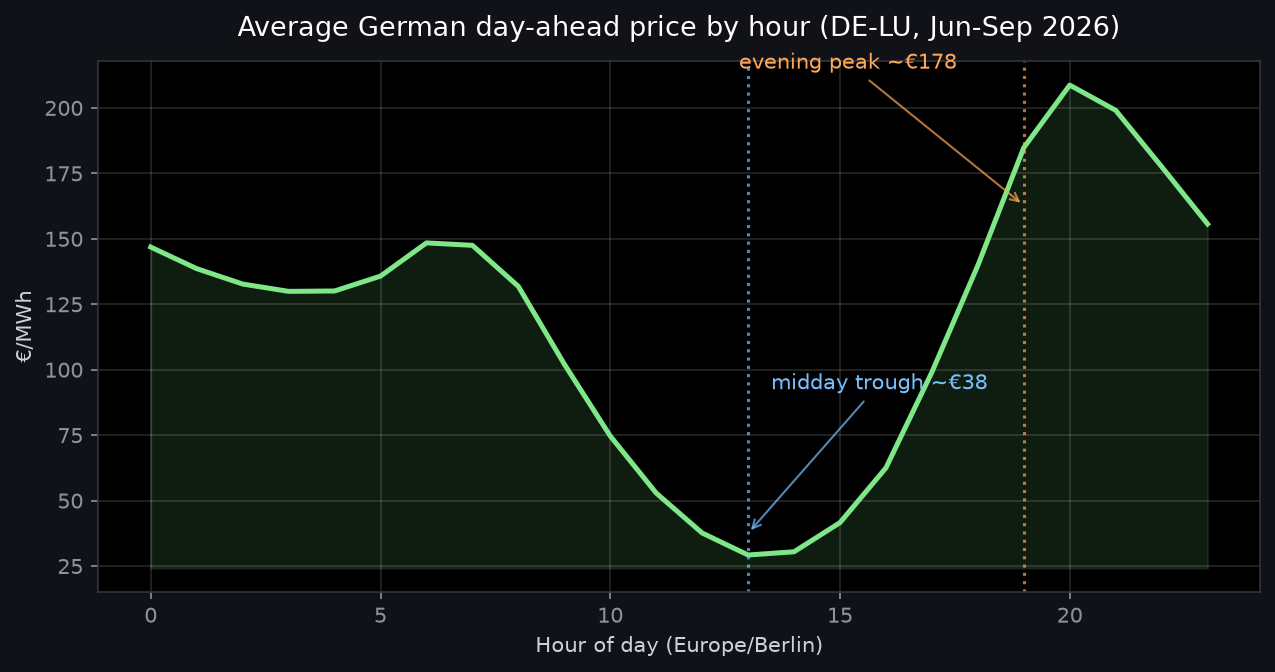
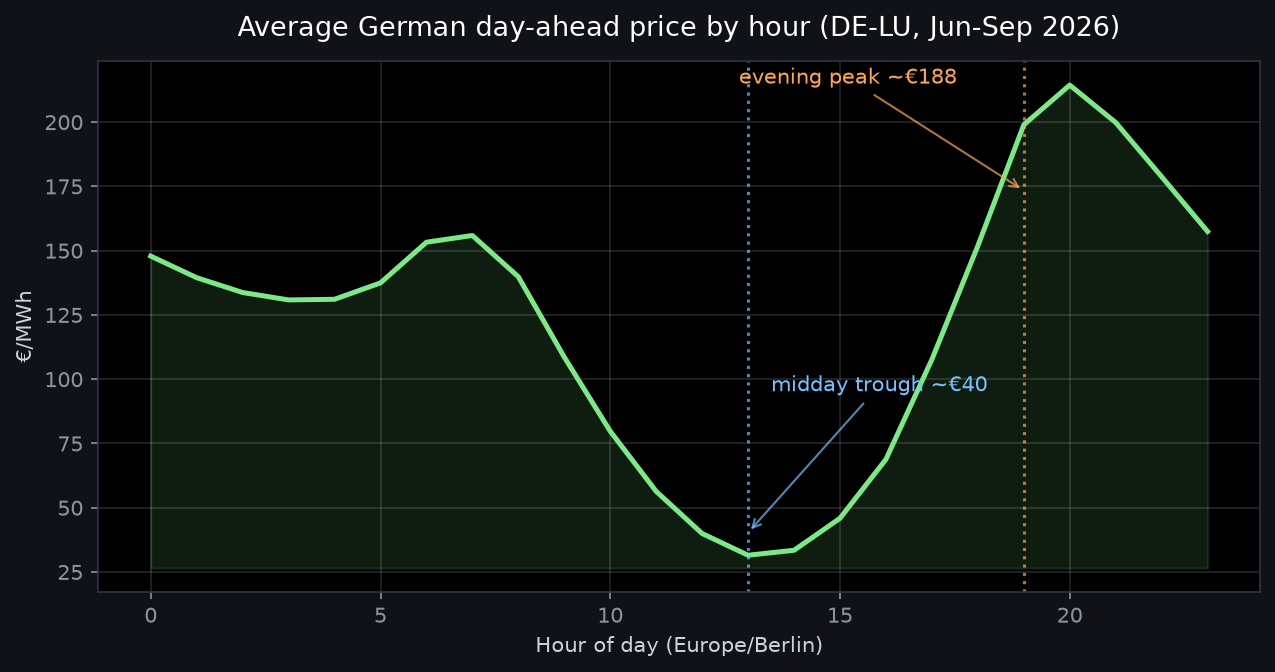
Refresh the findings to 16 weeks of prices (8 June - 28 September)
The serving layer now holds 2,712 hours. A revision-aware backfill and a
full-window transform pulled in one SMARD revision the hourly 7-day
window had missed (2026-09-13 10:00 UTC, 100.83 -> 100.82); afterwards
every hour matched SMARD's published value.

The weekend-midday average moved from -0.83 to +2.98 EUR/MWh, so the
text no longer says the market paid consumers on average. Query J lists
that average per weekend day and shows the change comes from one day,
Sunday 13 September. Query C now also returns the overall average price
that section 4 compares the intraday spread against (1.6x, not the
earlier "nearly twice"). Charts regenerated with make charts.

diff --git a/analysis/findings.md b/analysis/findings.md
@@ -1,8 +1,10 @@
 # Findings: what actually drives the German day-ahead price?
 
-**Data**: 2,328 hourly day-ahead prices for the **DE-LU bidding zone**, 8 June – 12 September
-2026 (14 complete weeks plus the published part of the current week), ingested from SMARD.de
-into this repository's own warehouse and merged with revision-aware upserts.
+**Data**: 2,712 hourly day-ahead prices for the **DE-LU bidding zone**, 8 June – 28 September
+2026 (16 complete weeks plus Monday 28 September, published a day ahead), ingested from
+SMARD.de into this repository's own warehouse and merged with revision-aware upserts. Every
+hour in the window matched SMARD's published value at the time of the last refresh
+(27 September 2026).
 
 Every number below is re-runnable from the marts:
 
@@ -15,61 +17,63 @@ python analysis/make_charts.py   # regenerates the charts in docs/images/
 
 | | |
 | --- | --- |
-| **€178 vs €38** | evening peak (18–20h) vs midday trough (11–14h) — the duck curve, priced |
-| **7.9%** | share of all hours priced below zero (185 hours; the minimum was **−€45.87/MWh**) |
-| **20.5% vs 3.1%** | share of hours below zero on weekends vs weekdays |
-| **−€0.83 vs €192** | average weekend-midday price vs weekday-evening price — the cheapest window of the week is *free* |
+| **€188 vs €40** | evening peak (18–20h) vs midday trough (11–14h) — the duck curve, priced |
+| **7.5%** | share of all hours priced below zero (203 hours; the minimum was **−€45.87/MWh**) |
+| **19.7% vs 2.7%** | share of hours below zero on weekends vs weekdays |
+| **€2.98 vs €206** | average weekend-midday price vs weekday-evening price — the cheapest window of the week is *nearly free* |
 
 The practical takeaway: a weekend midday is the cheapest window of the German
-electricity week. The market paid consumers to use power on average (−€0.83/MWh
-over 11:00–14:00), while a weekday evening (18:00–20:00) cost €191.89/MWh, a gap
-of about €193/MWh.
+electricity week. Power over 11:00–14:00 on weekends averaged €2.98/MWh, while a
+weekday evening (18:00–20:00) cost €205.73/MWh, a gap of about €203/MWh. In the
+earlier 14-week window (to 12 September) the same average was −€0.83/MWh. One day
+lifted it above zero: Sunday 13 September averaged €100.09/MWh at midday. 24 of the 32
+weekend days still averaged below zero over 11:00–14:00.
 
 ## 1. The duck curve, priced
 
 ![Average price by hour](../docs/images/findings_duck_curve.png)
 
-Averaged over 97 days, the shape is stark: the **13:00 hour averages €29.23/MWh** while
-**20:00 averages €208.72/MWh** — a 7× swing *within the same day*. The solar midday floods
+Averaged over 113 days, the shape is stark: the **13:00 hour averages €31.52/MWh** while
+**20:00 averages €214.42/MWh** — a 6.8× swing *within the same day*. The solar midday floods
 the market; the evening ramp, when solar is gone and demand peaks, is where the price lives.
 
 ## 2. Negative prices are a summer, weekend phenomenon
 
 ![Negative hours and average price by month](../docs/images/findings_monthly.png)
 
-185 of 2,328 hours (7.9%) cleared below zero over the window, and 35 of 97 days contained
+203 of 2,712 hours (7.5%) cleared below zero over the window, and 38 of 113 days contained
 at least one negative hour. The worst days were 13–14 June with **10 negative hours each**
 (that Saturday averaged just €26.82/MWh). Monthly counts:
 
 | Month | Negative hours | Avg price | Min price |
 | --- | --- | --- | --- |
-| June 2026 | 34 | €113.75 | −€45.87 |
+| June 2026 (from 8 June) | 34 | €113.75 | −€45.87 |
 | July 2026 | 79 | €105.45 | −€12.28 |
 | August 2026 | 54 | €126.89 | −€12.15 |
-| September 2026 (partial) | 18 | €137.54 | −€19.00 |
+| September 2026 (to 28 September) | 36 | €144.22 | −€19.00 |
 
-The weekday/weekend split is even sharper than the seasonal one: **20.5% of weekend hours
-were negative vs 3.1% on weekdays** — industrial demand disappears exactly when solar
+The weekday/weekend split is even sharper than the seasonal one: **19.7% of weekend hours
+were negative vs 2.7% on weekdays** — industrial demand disappears exactly when solar
 output peaks.
 
 ## 3. The week rhythm
 
 ![Weekend vs weekday profile](../docs/images/findings_week_rhythm.png)
 
-Weekends average **€87.08/MWh against €130.26 on weekdays (−33%)**, but the difference is
-not uniform: it is concentrated midday, where the weekend curve collapses into negative
-territory while the weekday curve stays well above zero. A consumer with flexible load
+Weekends average **€88.84/MWh against €135.98 on weekdays (−35%)**, but the difference is
+not uniform: it is concentrated midday, where the weekend curve collapses to around zero
+while the weekday curve stays well above it. A consumer with flexible load
 should think in terms of *weekend midday*, not "the weekend".
 
 ## 4. What intraday volatility is worth
 
-The average **intraday spread (max − min per local day) is €186.36/MWh** — nearly twice the
-average price level. For battery storage, EVs, heat pumps, or any flexible load, this is the
+The average **intraday spread (max − min per local day) is €194.79/MWh** — about 1.6 times
+the average price of €122.63/MWh. For battery storage, EVs, heat pumps, or any flexible load, this is the
 number that matters: it is the value of shifting one megawatt-hour by a few hours.
 
 ## Caveats
 
-- 14 weeks is a snapshot, and a summer one. German winter dynamics (heating demand, weak
+- 16 weeks is a snapshot, mostly a summer one. German winter dynamics (heating demand, weak
   solar, Dunkelflaute) look different; the same queries on a winter window are one
   `make backfill` away.
 - Only day-ahead prices are analysed here. Intraday and imbalance markets have their own

diff --git a/README.md b/README.md
@@ -77,15 +77,15 @@ http://localhost:8080 once it is running.
 
 ![Average price by hour](docs/images/findings_duck_curve.png)
 
-Fourteen weeks of real prices (2,328 hours, June to September 2026), computed
-from the marts and re-runnable with `make bi`:
+Sixteen weeks of real prices (2,712 hours, 8 June to 28 September 2026),
+computed from the marts and re-runnable with `make bi`:
 
 | Metric | Value |
 | --- | --- |
-| Evening peak vs midday trough | €178 vs €38 per MWh |
-| Hours priced below zero | 7.9% (minimum −€45.87/MWh) |
-| Negative share, weekends vs weekdays | 20.5% vs 3.1% |
-| Weekend midday vs weekday evening | −€0.83 vs €192 per MWh |
+| Evening peak vs midday trough | €188 vs €40 per MWh |
+| Hours priced below zero | 7.5% (minimum −€45.87/MWh) |
+| Negative share, weekends vs weekdays | 19.7% vs 2.7% |
+| Weekend midday vs weekday evening | €2.98 vs €206 per MWh |
 
 Full analysis, charts and caveats: [analysis/findings.md](analysis/findings.md).
 
